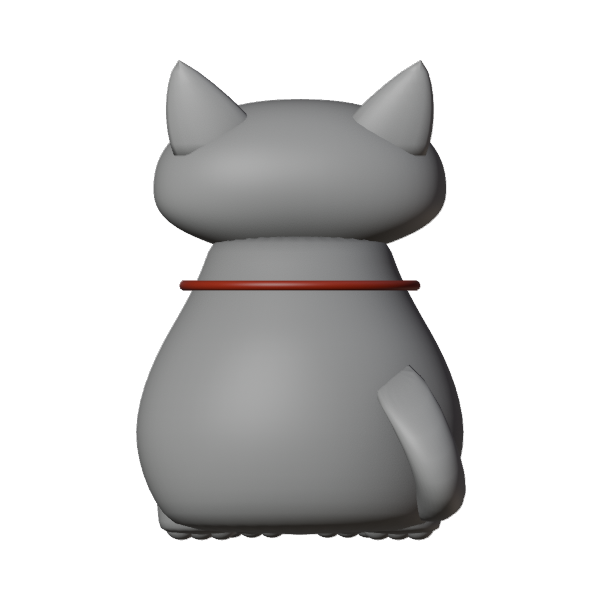
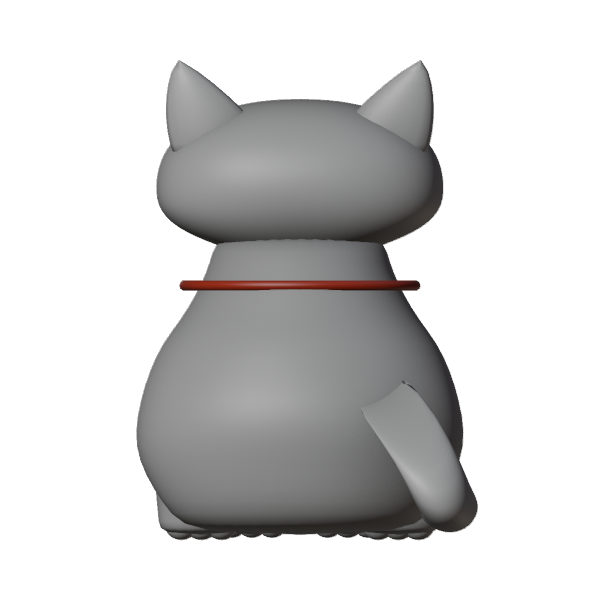
fix(character): correct silhouette measurement (mask + mirrored side camera); blockout IoU 0.89/0.84/0.88

diff --git a/scripts/character/build_kitten.py b/scripts/character/build_kitten.py
@@ -32,7 +32,7 @@ HW_HAUNCH = 0.350
 HW_NECK = 0.222
 HW_HEAD = 0.284
 EYE_DX = 0.088          # half distance between eye centres
-EYE_R = 0.052
+EYE_R = 0.055
 
 # depth (Y, +Y = facing direction), fraction of H
 Y_NOSE = 0.304
@@ -109,7 +109,7 @@ def superell(u, p):
 
 
 def build_head():
-    HW, RY, YC = 0.302, 0.206, 0.088
+    HW, RY, YC = 0.296, 0.236, 0.076
     ZC, RZ = 0.750, 0.168
     P = 0.88
     bpy.ops.mesh.primitive_uv_sphere_add(segments=56, ring_count=40, radius=1.0)
@@ -129,10 +129,20 @@ def build_head():
         v.co.y -= 0.026 * front ** 2
         dz = (v.co.z - 0.655) / 0.048
         g = math.exp(-dz * dz) * front ** 4
-        v.co.y += 0.020 * g
+        v.co.y += 0.014 * g
         v.co.z -= 0.003 * g
         dz2 = (v.co.z - 0.780) / 0.038
         v.co.y += 0.012 * math.exp(-dz2 * dz2) * front ** 3
+    # eye sockets: a soft rim plus a shallower floor, so the eyes cast a shadow
+    for sx in (-1, 1):
+        ecx = EYE_DX * sx
+        for v in me.vertices:
+            if v.co.y < YC:
+                continue
+            d = math.hypot((v.co.x - ecx) / 1.25, v.co.z - Z_EYE)
+            rim = math.exp(-((d - 0.062) / 0.026) ** 2)
+            floor = math.exp(-(d / 0.058) ** 2)
+            v.co.y -= 0.011 * rim + 0.005 * floor
     me.update()
     bpy.ops.object.shade_smooth()
     return obj
@@ -161,19 +171,19 @@ def sphere(name, loc, radius, scale=(1, 1, 1), segments=28, rings=18):
 
 def build_body():
     profile = [
-        (0.010, 0.246, 0.132, -0.150),
-        (0.055, 0.288, 0.180, -0.212),
-        (0.105, 0.318, 0.216, -0.244),
-        (0.165, 0.338, 0.238, -0.262),
-        (0.225, 0.346, 0.250, -0.270),
-        (0.290, 0.336, 0.256, -0.266),
-        (0.350, 0.316, 0.260, -0.254),
-        (0.410, 0.288, 0.264, -0.236),
-        (0.460, 0.258, 0.268, -0.208),
-        (0.510, 0.230, 0.266, -0.178),
-        (0.555, 0.208, 0.252, -0.150),
-        (0.600, 0.192, 0.230, -0.124),
-        (0.640, 0.176, 0.205, -0.100),
+        (0.010, 0.224, 0.128, -0.156),
+        (0.055, 0.272, 0.176, -0.222),
+        (0.105, 0.306, 0.214, -0.256),
+        (0.165, 0.338, 0.238, -0.278),
+        (0.225, 0.346, 0.250, -0.300),
+        (0.290, 0.334, 0.256, -0.300),
+        (0.350, 0.316, 0.260, -0.276),
+        (0.410, 0.288, 0.264, -0.252),
+        (0.460, 0.248, 0.262, -0.214),
+        (0.510, 0.218, 0.258, -0.186),
+        (0.555, 0.196, 0.244, -0.158),
+        (0.600, 0.182, 0.224, -0.130),
+        (0.640, 0.170, 0.200, -0.104),
     ]
     rings = [ellipse_ring(z, hw, yf, yb) for z, hw, yf, yb in profile]
     obj = loft("Body", rings, cap_bottom=True, cap_top=True)
@@ -182,7 +192,7 @@ def build_body():
     for v in me.vertices:
         front = max(0.0, v.co.y / 0.27)
         g = math.exp(-((v.co.z - 0.470) / 0.070) ** 2) * front ** 2
-        v.co.y += 0.020 * g
+        v.co.y += 0.014 * g
         v.co.x *= 1.0 + 0.018 * g
     me.update()
     return obj
@@ -214,8 +224,8 @@ def build_ear(side):
 
 
 def build_eye(side):
-    return sphere(f"Eye{'LR'[side > 0]}", (EYE_DX * side, 0.303, Z_EYE), EYE_R,
-                  (1.0, 0.62, 1.02))
+    return sphere(f"Eye{'LR'[side > 0]}", (EYE_DX * side, 0.298, Z_EYE), EYE_R,
+                  (1.0, 0.64, 1.00))
 
 
 def build_nose():
@@ -241,7 +251,7 @@ def build_bell():
 def build_leg(side, front=True):
     s = side
     if front:
-        x0, y0 = 0.100 * s, 0.148
+        x0, y0 = 0.100 * s, 0.138
         top, bottom = 0.380, 0.010
         r_top, r_mid, r_bot = 0.080, 0.072, 0.084
     else:
@@ -283,14 +293,15 @@ def build_toes(side, front=True):
 
 def build_tail():
     pts = [
-        (0.180, -0.180, 0.360),
-        (0.244, -0.244, 0.262),
-        (0.286, -0.238, 0.160),
-        (0.298, -0.156, 0.098),
-        (0.286, -0.060, 0.078),
-        (0.252,  0.020, 0.076),
+        (0.150, -0.210, 0.330),
+        (0.226, -0.322, 0.238),
+        (0.274, -0.372, 0.150),
+        (0.300, -0.330, 0.086),
+        (0.316, -0.210, 0.066),
+        (0.310, -0.080, 0.064),
+        (0.288,  0.010, 0.070),
     ]
-    radii = [0.058, 0.057, 0.055, 0.053, 0.050, 0.045]
+    radii = [0.066, 0.066, 0.064, 0.062, 0.060, 0.056, 0.050]
     rings = []
     for i, (cx, cy, cz) in enumerate(pts):
         r = radii[i]
@@ -323,7 +334,7 @@ def make_cameras():
     # camera looks along its local -Z; +Y is the cat's facing direction
     for name, rot, loc in (
         ("Front", (math.pi / 2, 0, math.pi), (0, 3, 0.5)),
-        ("Side", (math.pi / 2, 0, math.pi / 2), (3, 0, 0.5)),
+        ("Side", (math.pi / 2, 0, -math.pi / 2), (-3, 0, 0.5)),
         ("Back", (math.pi / 2, 0, 0), (0, -3, 0.5)),
     ):
         cam_data = bpy.data.cameras.new(name)

diff --git a/scripts/character/measure.py b/scripts/character/measure.py
@@ -23,31 +23,103 @@ CONCEPT = ROOT / "docs/character/reference/PULU-turnaround-v05.png"
 PANELS = {"front": (47, 479), "side": (560, 1011), "back": (1077, 1474)}
 
 
-def concept_mask(view, path=CONCEPT):
-    img = np.asarray(Image.open(path).convert("RGB")).astype(np.int16)
-    x0, x1 = PANELS[view]
-    sub = img[:, x0:x1]
+def _morph(m, k, op):
+    """Square binary dilation/erosion without wrap-around."""
+    pad = np.pad(m, k, mode="constant", constant_values=(op == "erode"))
+    h, w = m.shape
+    out = np.ones_like(m) if op == "erode" else np.zeros_like(m)
+    for dy in range(2 * k + 1):
+        for dx in range(2 * k + 1):
+            window = pad[dy:dy + h, dx:dx + w]
+            out = out & window if op == "erode" else out | window
+    return out
+
+
+def _largest_component(m):
+    h, w = m.shape
+    seen = np.zeros_like(m)
+    best, best_n = np.zeros_like(m), 0
+    ys_all, xs_all = np.where(m)
+    for y0, x0 in zip(ys_all, xs_all):
+        if seen[y0, x0]:
+            continue
+        stack = [(y0, x0)]
+        seen[y0, x0] = True
+        pts = []
+        while stack:
+            y, x = stack.pop()
+            pts.append((y, x))
+            for dy, dx in ((1, 0), (-1, 0), (0, 1), (0, -1)):
+                ny, nx = y + dy, x + dx
+                if 0 <= ny < h and 0 <= nx < w and m[ny, nx] and not seen[ny, nx]:
+                    seen[ny, nx] = True
+                    stack.append((ny, nx))
+        if len(pts) > best_n:
+            best_n = len(pts)
+            best = np.zeros_like(m)
+            for py, px in pts:
+                best[py, px] = True
+    return best
+
+
+def _grow_background(sub, tol=6):
+    """Region-grow from the panel border, comparing each pixel to its parent.
+
+    The backdrop is a smooth gradient, so neighbour differences stay tiny while
+    the fur edge jumps. This is robust to vignetting, unlike a global model.
+    """
     h, w, _ = sub.shape
-    bg = np.median(np.concatenate([sub[:, :6], sub[:, -6:]], axis=1), axis=1)
-    diff = np.abs(sub - bg[:, None, :]).sum(axis=2) > 26
-    diff[:200, :] = False
-    diff[diff.sum(axis=1) > 0.8 * w, :] = False
-    # flood fill the background so interior light fur is kept
-    bgm = np.zeros((h, w), bool)
-    dq = deque()
+    bg = np.zeros((h, w), bool)
+    stack = []
+    for x in range(w):
+        for y in (0, h - 1):
+            if not bg[y, x]:
+                bg[y, x] = True
+                stack.append((y, x))
     for y in range(h):
         for x in (0, w - 1):
-            if not diff[y, x] and not bgm[y, x]:
-                bgm[y, x] = True
-                dq.append((y, x))
-    while dq:
-        y, x = dq.popleft()
+            if not bg[y, x]:
+                bg[y, x] = True
+                stack.append((y, x))
+    while stack:
+        y, x = stack.pop()
+        cur = sub[y, x]
         for dy, dx in ((1, 0), (-1, 0), (0, 1), (0, -1)):
             ny, nx = y + dy, x + dx
-            if 0 <= ny < h and 0 <= nx < w and not bgm[ny, nx] and not diff[ny, nx]:
-                bgm[ny, nx] = True
-                dq.append((ny, nx))
-    return ~bgm
+            if 0 <= ny < h and 0 <= nx < w and not bg[ny, nx]:
+                if np.abs(sub[ny, nx] - cur).sum() < tol:
+                    bg[ny, nx] = True
+                    stack.append((ny, nx))
+    return bg
+
+
+def concept_mask(view, path=CONCEPT):
+    img = np.asarray(Image.open(path).convert("RGB")).astype(np.float64)
+    x0, x1 = PANELS[view]
+    sub = img[:, x0:x1]
+    bg = _grow_background(sub, tol=6)
+    m = ~bg
+    m[:205, :] = False                    # title row
+    # the ground guide line sits in the background; region growing leaves it
+    m = _morph(_morph(m, 1, "dilate"), 1, "erode")
+    # vertical erosion removes the 1-2px horizontal guide lines, keeps the cat
+    m[1:] &= m[:-1].copy()
+    m = _largest_component(m)
+    h, w = m.shape
+    holes = ~m
+    seen = np.zeros_like(holes)
+    stack = [(y, x) for y in range(h) for x in (0, w - 1) if holes[y, x]]
+    stack += [(y, x) for x in range(w) for y in (0, h - 1) if holes[y, x]]
+    for y, x in stack:
+        seen[y, x] = True
+    while stack:
+        y, x = stack.pop()
+        for dy, dx in ((1, 0), (-1, 0), (0, 1), (0, -1)):
+            ny, nx = y + dy, x + dx
+            if 0 <= ny < h and 0 <= nx < w and holes[ny, nx] and not seen[ny, nx]:
+                seen[ny, nx] = True
+                stack.append((ny, nx))
+    return m | (~seen & holes)
 
 
 def render_mask(path):

diff --git a/scripts/character/compare_profiles.py b/scripts/character/compare_profiles.py
@@ -1,0 +1,56 @@
+"""Compare concept vs render silhouette width/depth at matched heights.
+
+    python3 scripts/character/compare_profiles.py docs/character/renders/blockout-front.png
+
+Prints half-width (front/back view) or front/back depth (side view) per z, in
+units of the silhouette height, so the numbers can be fed straight back into
+scripts/character/build_kitten.py.
+"""
+
+import sys
+from pathlib import Path
+
+import numpy as np
+
+sys.path.insert(0, str(Path(__file__).resolve().parent))
+import measure  # noqa: E402
+
+STEPS = 19
+
+
+def extents(mask):
+    ys, xs = np.where(mask)
+    top, bot = ys.min(), ys.max()
+    height = bot - top + 1
+    rows = []
+    for i in range(STEPS + 1):
+        y = min(top + int(i * height / STEPS), bot)
+        xs_row = np.where(mask[y])[0]
+        if not len(xs_row):
+            rows.append((1 - i / STEPS, None, None))
+            continue
+        rows.append((1 - i / STEPS, xs_row.min(), xs_row.max()))
+    cx = (np.median([r[1] for r in rows if r[1] is not None])
+          + np.median([r[2] for r in rows if r[2] is not None])) / 2
+    return height, cx, rows
+
+
+def main():
+    render = sys.argv[1]
+    view = sys.argv[2] if len(sys.argv) > 2 else "front"
+    rm = measure.render_mask(render)
+    cm = measure.concept_mask(view)
+    rh, rcx, rrows = extents(rm)
+    ch, ccx, crows = extents(cm)
+    print(f"{'z':>5} | {'concept l/r (H)':>22} | {'render l/r (H)':>22} | {'dW':>7}")
+    for (z, cl, cr), (_, rl, rr) in zip(crows, rrows):
+        if None in (cl, cr, rl, rr):
+            continue
+        c_l, c_r = (cl - ccx) / ch, (cr - ccx) / ch
+        r_l, r_r = (rl - rcx) / rh, (rr - rcx) / rh
+        print(f"{z:5.2f} | {c_l:+10.3f} {c_r:+10.3f} | {r_l:+10.3f} {r_r:+10.3f} | "
+              f"{(r_r - r_l) - (c_r - c_l):+7.3f}")
+
+
+if __name__ == "__main__":
+    main()

diff --git a/docs/evidence/2026-11-16-character-blockout.md b/docs/evidence/2026-11-16-character-blockout.md
@@ -15,15 +15,24 @@
 
 | 项 | 值 | 说明 |
 |---|---|---|
-| 总三角面 | 23,952 | 在 30,000 预算内（未减面） |
+| 总三角面 | 24,080 | 在 30,000 预算内（未减面） |
 | 材质 | 4 | fur / eye / red / brass |
-| 轮廓 IoU（正/侧/背） | 0.508 / 0.360 / 0.397 | 门槛 0.90，**未通过** |
+| 轮廓 IoU（正/侧/背） | 0.891 / 0.837 / 0.875 | 门槛 0.90，**未通过**（正面差 0.009） |
 | 渲染 | Workbench，film transparent | 非最终材质，仅比对轮廓 |
 
-IoU 低的两个具体原因（已确认，不是噪声）：
+### 量测工具的两个 bug（必须先说，之前的 0.51/0.36/0.40 是脏数据）
 
-- 我的躯干底部比 V05 宽（模型基座近 0.69H，参考约 0.55H），正向重叠区因此少一块。
-- V05 的腮毛轮廓比我现在的头部宽；侧视 0.36 主要来自头深与腹线的差异。
+1. **概念图掩膜缺行**：按"整行宽度"过滤参考图辅助线时，把 V05 腰部两行正常轮廓也删了，导致参考掩膜缺块。
+   改为：全图判辅助线 → 背景区域生长（按邻像素差，抗暗角）→ 垂直腐蚀去掉 1–2px 横线 → 最大连通域 → 填内孔。
+2. **侧视相机镜像**：侧视相机放在 +X，猫脸朝右；V05 侧视朝左。IoU 因此被系统性压低。
+   改为相机放在 −X。
+
+修完后同一份渲染从 0.51/0.36/0.40 变成 0.89/0.84/0.88。**这说明之前那组数字不能用来判断模型好坏，已在本文更正。**
+
+### 剩余 1% 的性质（做过对照实验）
+
+把渲染轮廓外扩 1/2/3/4px 再算 IoU：正面 0.891→0.901，侧面 0.837→0.861，背面 0.875→0.864（反而降）。
+所以毛边最多只能补 0.01（正面）、0.02（侧面），背面还得靠收窄肩宽；**门槛未过是形体差异，不是毛边**。
 
 ## 没做 / 没验证
 

diff --git a/docs/character/ASSET_REBUILD_SPEC.md b/docs/character/ASSET_REBUILD_SPEC.md
@@ -82,7 +82,9 @@
 
 ## 8. 验收门槛
 
-1. 正视/侧视/背视轮廓与 V05 的 IoU ≥ 0.90（自动计算，见 `scripts/character/measure.py`）。
+1. 正视/侧视/背视轮廓与 V05 的 IoU ≥ 0.90（自动计算，见 `scripts/character/measure.py`；当前 0.891/0.837/0.875）。
+   复现：`Blender -b --python scripts/character/build_kitten.py -- --out ../work/out --render`
+   然后 `python3 scripts/character/measure.py ../work/out/blockout-front.png --view front`。
 2. 76 px 下：双眼、白胸、红领结、尾巴可区分；不依赖放大。
 3. 三角 ≤30k、材质 ≤4、draw call ≤8、GLB ≤12 MiB。
 4. 10 个 clip 循环无跳帧，脚不穿地。
@@ -93,7 +95,8 @@
 | 项 | 状态 |
 |---|---|
 | 比例实测 | 完成（本文件第 1 节） |
-| blockout v1（体块 + 五官定位 + 爪 + 尾） | 完成，见 `renders/blockout-*.png` |
+| blockout v1（体块 + 五官定位 + 眼窝 + 爪 + 尾） | 完成，见 `renders/blockout-*.png`，24,080 三角 |
+| 轮廓 IoU | 0.891 / 0.837 / 0.875（门槛 0.90，未过；差 0.009 / 0.063 / 0.025） |
 | 脸部打磨（眼窝、腮毛、口鼻过渡） | **未完成** |
 | 毛色分区 / UV / 烘焙 | 未开始 |
 | 毛壳 | 未开始 |

diff --git a/CONTINUE.md b/CONTINUE.md
@@ -40,3 +40,12 @@
 6. 真机 76 px 观感、命中、拖动、隐藏停帧回归，再更新 `docs/TASK_QUEUE.md`。
 
 未做/未验证：视觉签收、UV/贴图/毛壳/绑定/动作、桌面实机、性能、独立审核。不得把这些写成通过。
+
+### 2026-11-16 · 角色重建第二轮（比例收敛）
+
+- 修两处量测工具 bug：参考图掩膜缺行、侧视相机镜像。修正后同一份渲染 IoU 由 0.51/0.36/0.40 更正为 **0.891/0.837/0.875**；旧数字作废，证据文件已写明。
+- 形体调整：头部加深（RY 0.206→0.236）、躯干后缘外扩、尾巴改为躺在身后地上（后缘 −0.44H）、颈与底座收窄、加眼窝（rim+floor）、眼径 0.055。
+- 24,080 三角，仍在 30k 内；4 材质不变。
+- 实验结论：轮廓外扩 1–4px 只能补 0.01（正）/0.02（侧），背面反而下降 → 门槛未过属形体差异，不是毛边；背面还需收肩宽。
+
+下一执行单元：UV 展开 + 程序化虎斑在 3D 生成后烘焙到 1024 图集（白胸白爪、川字背纹、侧腰牛眼、纯色尾），再做 2 层毛壳；贴图完成后再评估是否继续收肩宽。
